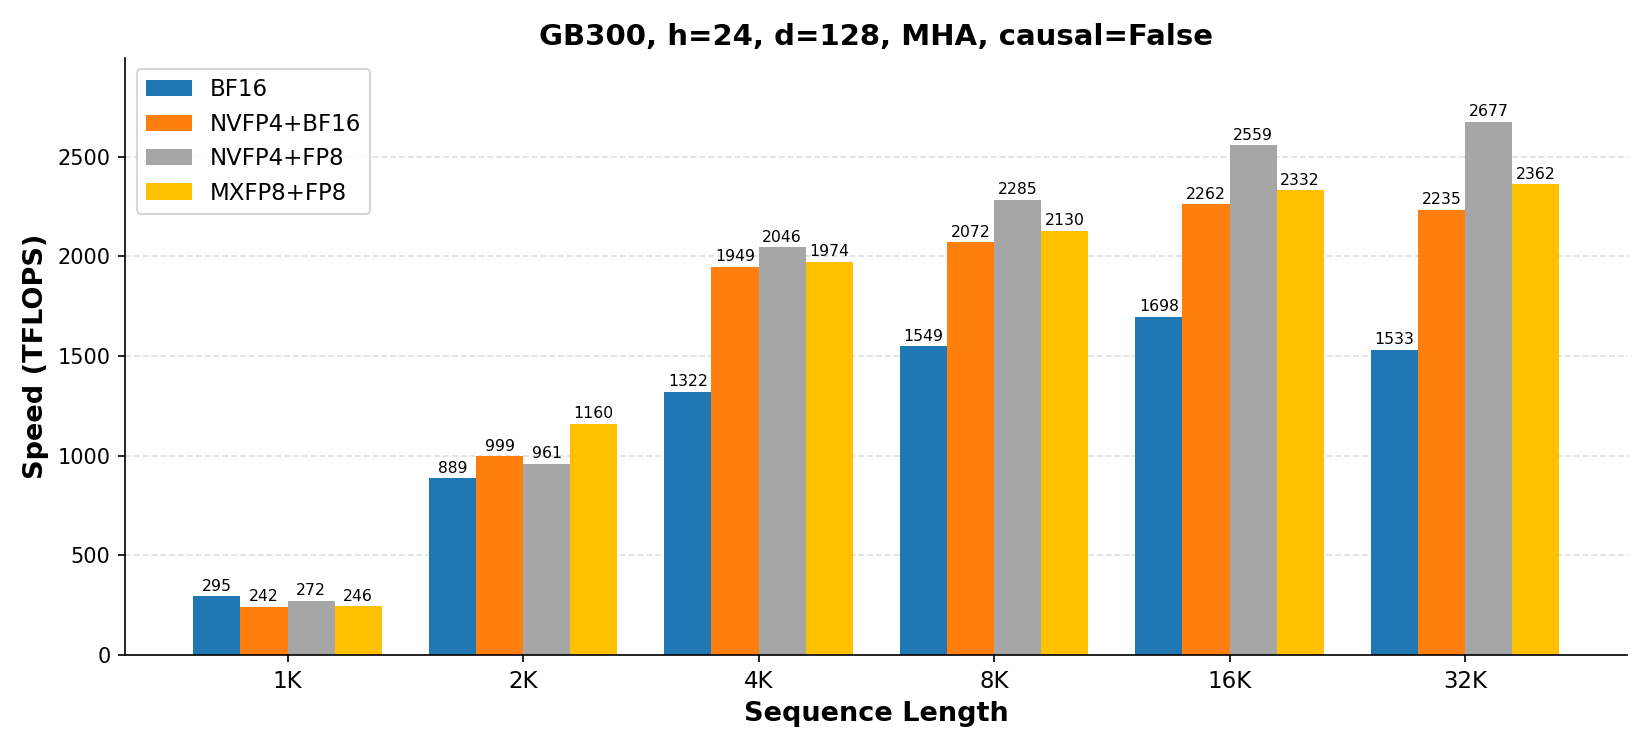
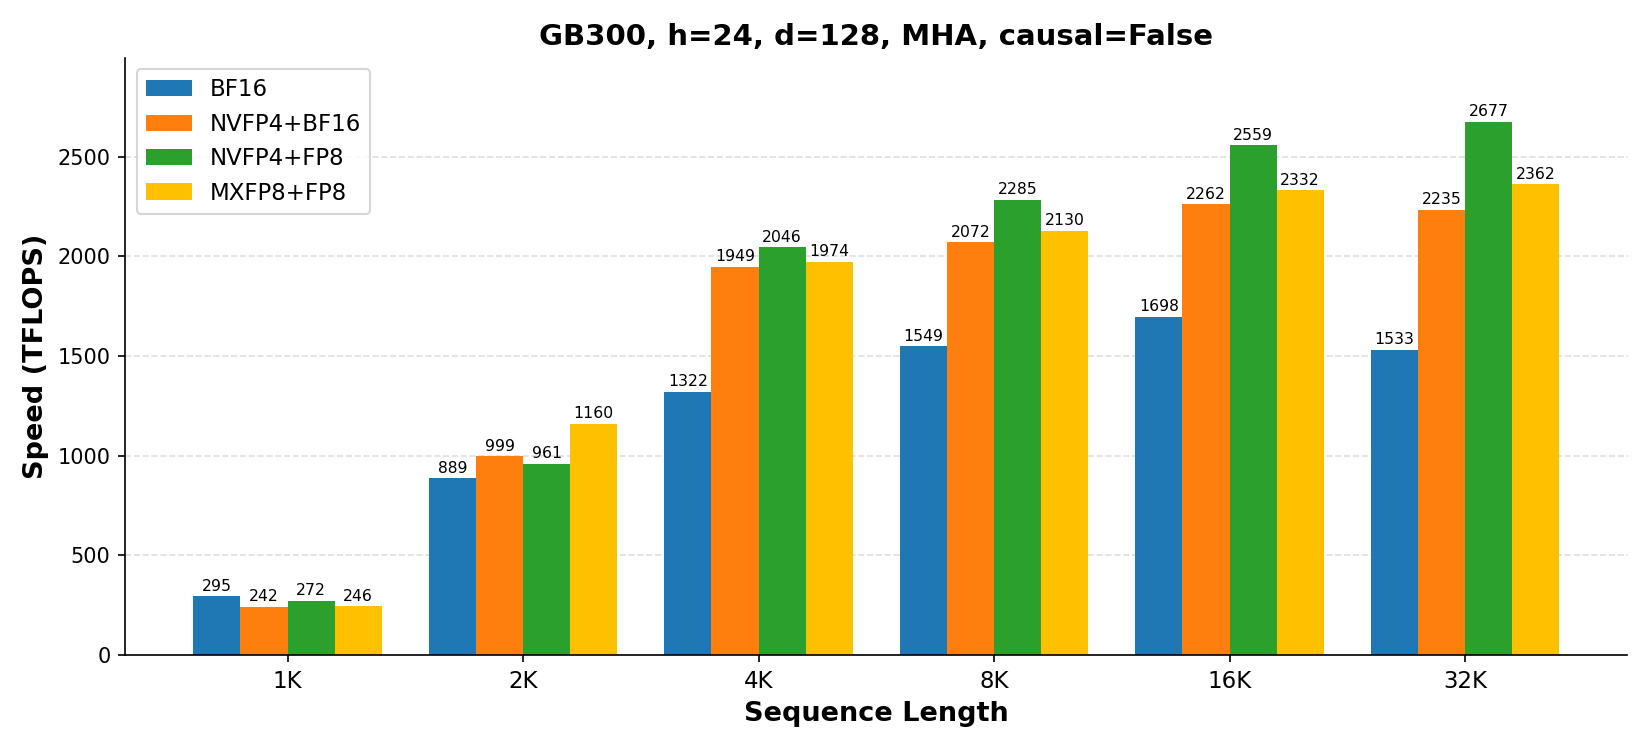
h=24 sweep: highlight NVFP4+FP8 in green; move re-measure notes to analysis doc
- gb300_tflops_h24.png: recolor NVFP4+FP8 (the fastest config) from gray to
  bright green so it stands out.
- README: keep only the refreshed h=24 numbers + figure under a clean
  "Sequence-length sweep" heading; drop the methodology footnote.
- b300_fp4_pv_analysis.md: refresh h=24 rows + peak line to the cooled numbers
  and document WHY (footnote 3). Correction to the earlier framing: the old
  s=4096 h=24 numbers were NOT a slower kernel — the original sweep had no
  cooldown and h=24 runs last, so it was thermally throttled (reproduces ~1618
  hot vs ~1949 cool). Other rows likely similarly depressed; re-sweep with
  FA4_BENCH_COOLDOWN to refresh.

diff --git a/flash_attn/cute/debug/b300_fp4_pv_analysis.md b/flash_attn/cute/debug/b300_fp4_pv_analysis.md
@@ -565,16 +565,15 @@ quant, 3/4 FP8 P-split, MXFP8 PV, and the block-scaled-PV SF-stepping fix):
 | b=4 s=4096 h=32 d=128 | 2144 | **2224** | 1311 | 1254 | 1717 | 2090 | 1451 |
 | b=1 s=4096 h=12 d=128 | 1213 | **1256** | 832 | 846 | 1065 | 1217 | 947 |
 | b=1 s=32768 h=12 d=128 ¹ | 2262 | **2508** | 1646 | 1697 | 1991 | 2342 | 1616 |
-| b=1 s=4096 h=24 d=128 | 1494 | **1555** | 1118 | 1148 | 1363 | 1472 | 1228 |
-| b=1 s=32768 h=24 d=128 | 2176 | **2578** | 1726 | 1755 | 2025 | 2290 | 1524 |
+| b=1 s=4096 h=24 d=128 ³ | 1949 | **2046** | 1288 | 1360 | 1650 | 1974 | 1322 |
+| b=1 s=32768 h=24 d=128 ³ | 2235 | **2677** | 1722 | 1809 | 1960 | 2362 | 1533 |
 | b=1 s=32768 h=24 d=64 | **1209** | 1205 | — | — | — | — | 1201 |
 
-All values in TFLOPS. Peak: **NVFP4+FP8 2578 TF**, **MXFP8+FP8 2342 TF**,
-**NVFP4+BF16 2262 TF**, **MXFP8+BF16 2025 TF**, **NVFP4+MXFP8 1755 TF**,
-**NVFP4+NVFP4 1726 TF**. **—** = unsupported (d=64 needs head_dim >=
-sf_vec_size x 4: NVFP4 PV and MXFP8 require 128). Small shapes (s <= 1024)
-are launch-latency dominated. MXFP8+x columns are MXFP8 QK (sf_vec 32,
-E8M0) with BF16/plain-FP8 PV; NVFP4+MXFP8 is NVFP4 QK with the new MXFP8
+All values in **TFLOPS**. Peak: **NVFP4+FP8 2677 TF**, **MXFP8+FP8 2362 TF**,
+**NVFP4+BF16 2262 TF**, **MXFP8+BF16 1991 TF**, **NVFP4+MXFP8 1809 TF**,
+**NVFP4+NVFP4 1722 TF**. **—** = unsupported (d=64 needs head_dim >=
+sf_vec_size x 4: NVFP4 PV and MXFP8 require 128). MXFP8+x columns are MXFP8 QK GEMM (sf_vec 32,
+E8M0) with BF16/plain-FP8 PV GEMM; NVFP4+MXFP8 is NVFP4 QK with the new MXFP8
 PV (E4M3 P/V, E8M0 SFs per 32) — slowest-but-most-accurate of the
 quantized-PV modes (mean_abs 0.0029 vs FP8 PV's 0.0040, FP4 PV's 0.0039).
 
@@ -584,3 +583,19 @@ quantized-PV modes (mean_abs 0.0029 vs FP8 PV's 0.0040, FP4 PV's 0.0039).
 (`flash_fwd_sm100.py`), and it too uses the SM103 ld.red fused S-load+row-max
 (`FA4_LDRED_ROWMAX`, default-on) — every column in this table includes it.
 The BF16-ref figures here are post-ld.red (~+1-4% over the pre-ld.red ref).
+
+³ **h=24 rows re-measured 2026-07 with a 15 s per-shape cooldown.** The original
+2026-06 sweep ran every shape back-to-back with **no sleep**, and h=24 is the
+*last* group in `bench_fp4`'s config list — so it ran on an already-hot GPU
+(after the long s=32768 h=16 and b=4 s=4096 h=32 shapes) and was **thermally
+throttled**, most on the short s=4096 kernel. This was NOT a slower kernel: the
+throttle is a measurement artifact of no cooldown. Confirmed by construction —
+running s=4096 h=24 immediately after 3× hot s=32768 reproduces ~1618 TF, vs
+~1949 cool/isolated (both at 2070 MHz idle; the throttle is transient during the
+short kernel's do_bench window). So the old s=4096 h=24 numbers were ~15-30% low
+(e.g. NVFP4+FP8 1555 → 2046) and s=32768 slightly low (2578 → 2677). Reproduce:
+`FA4_BENCH_H24_SWEEP=1 FA4_BENCH_COOLDOWN=15 python -m flash_attn.cute.benchmarks.bench_fp4 --qk_mode nvfp4 --pv_mode {bf16,fp8}`
+(+ `--qk_mode mxfp8 --pv_mode {bf16,fp8}`, `--pv_mode {fp4,mxfp8}`). The other
+rows (h=12/16/32) were also measured without cooldown, so they are likely
+similarly depressed — re-sweep with `FA4_BENCH_COOLDOWN` to refresh them too.
+See the h=24 sweep figure: `flash_attn/cute/figures/gb300_tflops_h24.png`.

diff --git a/flash_attn/cute/README.md b/flash_attn/cute/README.md
@@ -84,8 +84,8 @@ P-split, MXFP8 PV, and the block-scaled-PV SF-stepping fix:
 | b=4 s=4096 h=32 d=128 | 2144 | **2224** | 1311 | 1254 | 1717 | 2090 | 1451 |
 | b=1 s=4096 h=12 d=128 | 1213 | **1256** | 832 | 846 | 1065 | 1217 | 947 |
 | b=1 s=32768 h=12 d=128 ¹ | 2262 | **2508** | 1646 | 1697 | 1991 | 2342 | 1616 |
-| b=1 s=4096 h=24 d=128 ³ | 1949 | **2046** | 1288 | 1360 | 1650 | 1974 | 1322 |
-| b=1 s=32768 h=24 d=128 ³ | 2235 | **2677** | 1722 | 1809 | 1960 | 2362 | 1533 |
+| b=1 s=4096 h=24 d=128 | 1949 | **2046** | 1288 | 1360 | 1650 | 1974 | 1322 |
+| b=1 s=32768 h=24 d=128 | 2235 | **2677** | 1722 | 1809 | 1960 | 2362 | 1533 |
 | b=1 s=32768 h=24 d=64 | **1209** | 1205 | — | — | — | — | 1201 |
 
 All values in TFLOPS. Peak: **NVFP4+FP8 2677 TF**, **MXFP8+FP8 2362 TF**,
@@ -103,10 +103,7 @@ vs FP8 PV's 0.0040, FP4 PV's 0.0039).
 (`flash_fwd_sm100.py`), which also uses the SM103 ld.red fused S-load+row-max
 (`FA4_LDRED_ROWMAX`, default-on) — every column includes it.
 
-³ h=24 rows re-measured 2026-07 with a 15 s per-shape cooldown (consistent
-clock/thermal state). The s=4096 h=24 numbers are ~15–30% higher than the
-original 2026-06 sweep — a genuine kernel speedup on that shape, not thermal
-boost (reproducible isolated at 2070 MHz). Full sequence-length sweep:
+### Sequence-length sweep (GB300, h=24, d=128, non-causal)
 
 ![GB300 h=24, d=128, non-causal](figures/gb300_tflops_h24.png)
 
